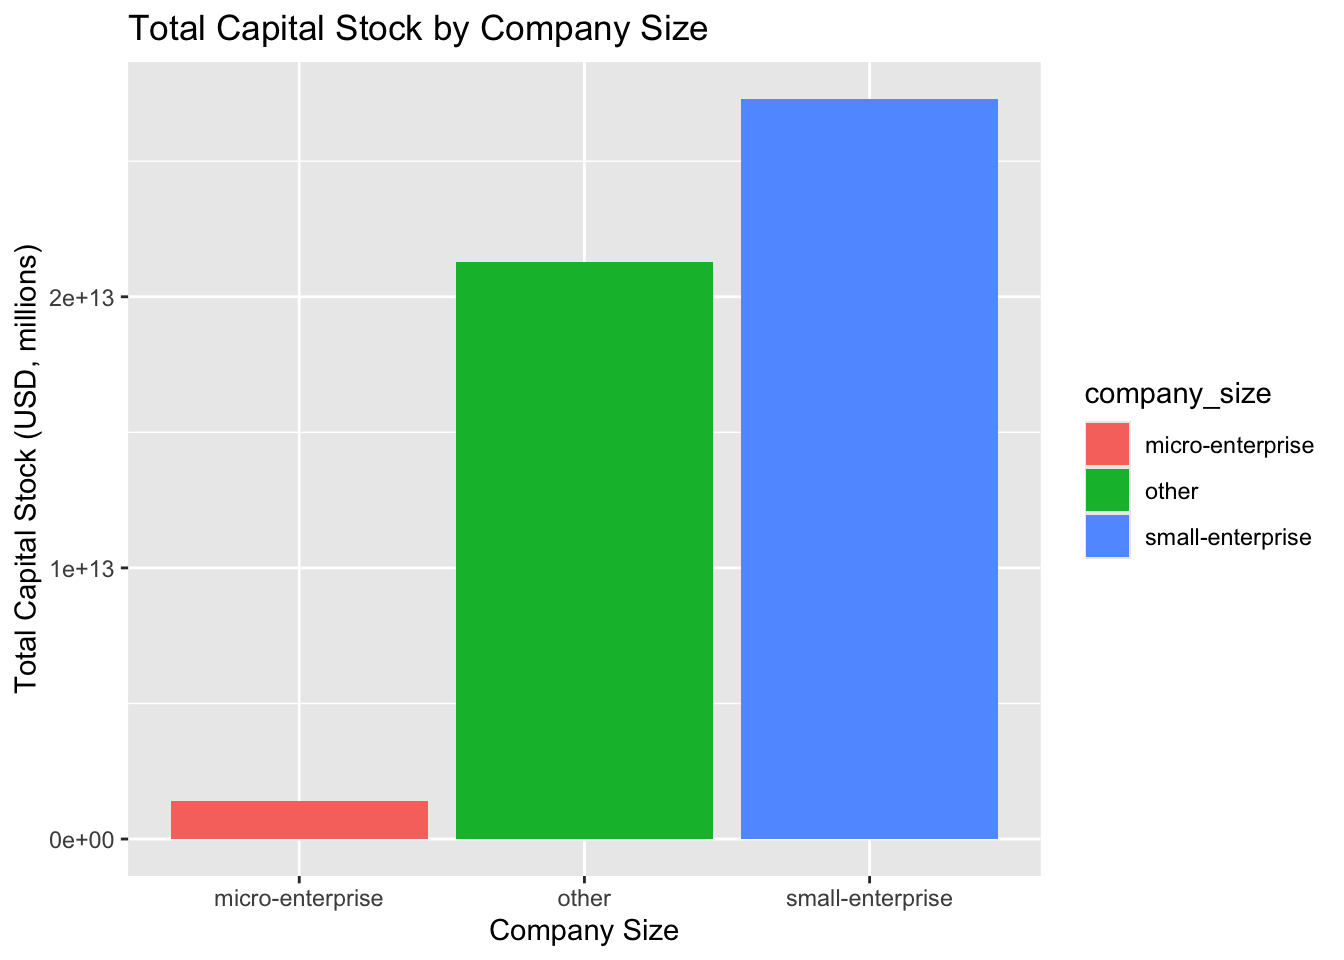
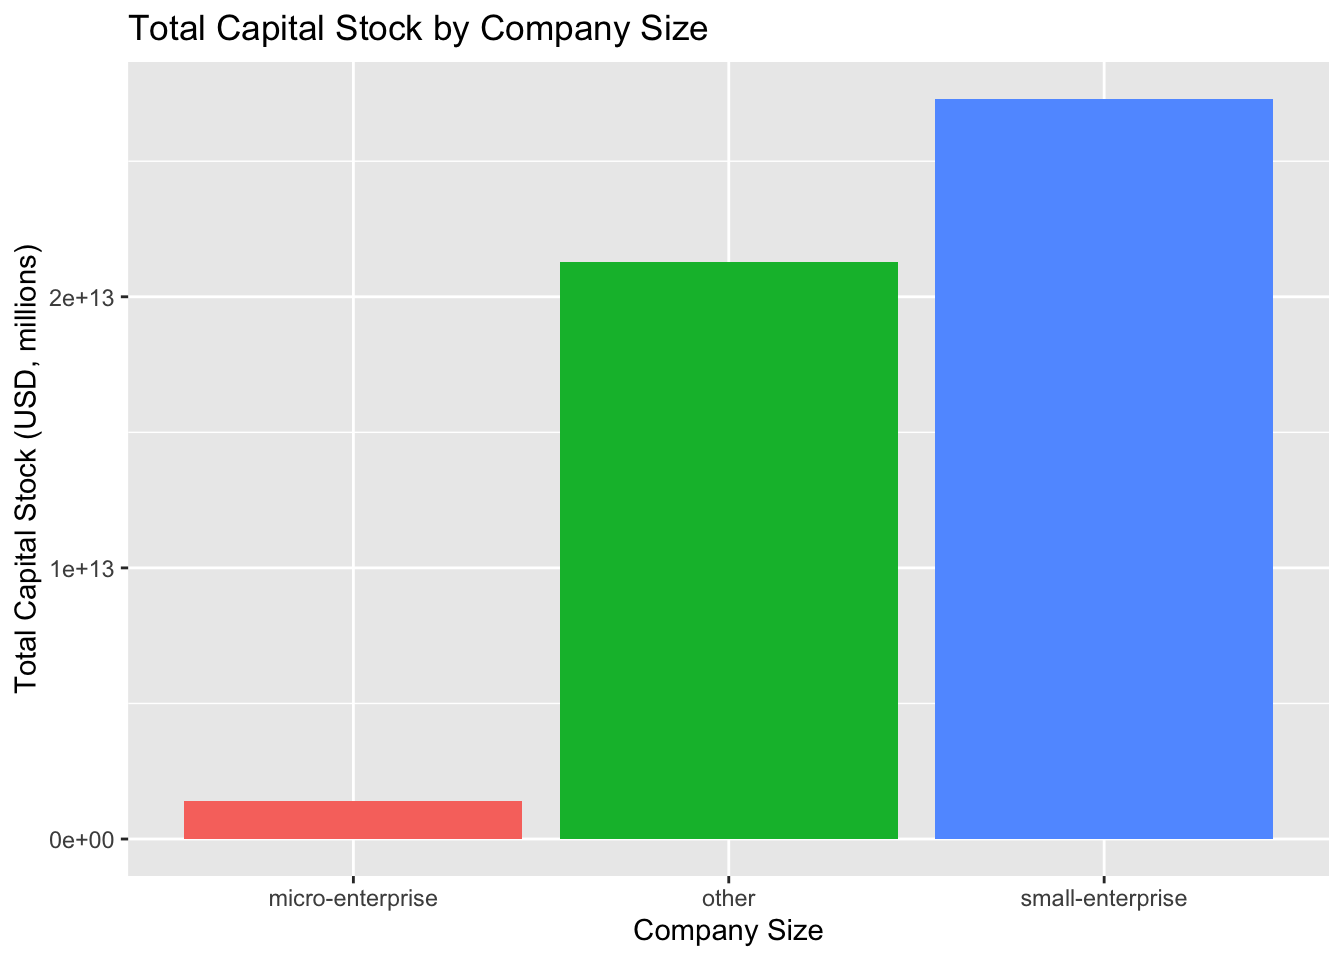
Built site for gh-pages

diff --git a/tt/hw01-tt.html b/tt/hw01-tt.html
@@ -467,6 +467,7 @@ cookieconsent.run({
 </header><section id="tidytuesday-section" class="level2"><h2 class="anchored" data-anchor-id="tidytuesday-section">TidyTuesday Section</h2>
 <p>Explore the week’s <a href="https://github.com/rfordatascience/tidytuesday">TidyTuesday</a> challenge. Develop a research question, then answer it through a short data story with <a href="?var:effective-viz-url">effective visualization(s)</a>. Provide sufficient background for readers to grasp your narrative.</p>
 <p>The dataset displays all 9 Brazilian companies in the Fortune Global 500, which ranks the world’s largest companies by annual revenue. The figures below are given in millions of US dollars and are for the fiscal year 2022.[1] Also listed are the headquarters location, net profit, number of employees worldwide and industry sector of each company.</p>
+<p>The original data can be found <a href="https://github.com/rfordatascience/tidytuesday/blob/main/data/2026/2026-01-27/readme.md">Here</a>.</p>
 <div class="cell">
 <details class="code-fold"><summary>Code</summary><div class="code-copy-outer-scaffold"><div class="sourceCode cell-code" id="cb1"><pre class="sourceCode numberSource r number-lines code-with-copy"><code class="sourceCode r"><span id="cb1-1"><a href="#cb1-1"></a><span class="fu">library</span>(tidyverse)</span>
 <span id="cb1-2"><a href="#cb1-2"></a><span class="fu">library</span>(ggplot2)</span>
@@ -491,7 +492,8 @@ cookieconsent.run({
 <span id="cb2-11"><a href="#cb2-11"></a>    <span class="at">title =</span> <span class="st">"Total Capital Stock by Company Size"</span>,</span>
 <span id="cb2-12"><a href="#cb2-12"></a>    <span class="at">x =</span> <span class="st">"Company Size"</span>,</span>
 <span id="cb2-13"><a href="#cb2-13"></a>    <span class="at">y =</span> <span class="st">"Total Capital Stock (USD, millions)"</span></span>
-<span id="cb2-14"><a href="#cb2-14"></a>  )</span></code></pre></div><button title="Copy to Clipboard" class="code-copy-button"><i class="bi"></i></button></div>
+<span id="cb2-14"><a href="#cb2-14"></a>  ) <span class="sc">+</span></span>
+<span id="cb2-15"><a href="#cb2-15"></a>  <span class="fu">theme</span>(<span class="at">legend.position =</span> <span class="st">"none"</span>)</span></code></pre></div><button title="Copy to Clipboard" class="code-copy-button"><i class="bi"></i></button></div>
 </details><div class="cell-output-display">
 <div>
 <figure class="figure"><p><img src="hw01-tt_files/figure-html/unnamed-chunk-2-1.png" class="img-fluid figure-img" width="672"></p>
@@ -993,33 +995,36 @@ cookieconsent.run({
 <span id="cb3-9"><a href="#cb3-9"></a></span>
 <span id="cb3-10"><a href="#cb3-10"></a>The dataset displays all 9 Brazilian companies in the Fortune Global 500, which ranks the world's largest companies by annual revenue. The figures below are given in millions of US dollars and are for the fiscal year 2022.<span class="co">[</span><span class="ot">1</span><span class="co">]</span> Also listed are the headquarters location, net profit, number of employees worldwide and industry sector of each company.</span>
 <span id="cb3-11"><a href="#cb3-11"></a></span>
-<span id="cb3-14"><a href="#cb3-14"></a><span class="in">```{r}</span></span>
-<span id="cb3-15"><a href="#cb3-15"></a><span class="fu">library</span>(tidyverse)</span>
-<span id="cb3-16"><a href="#cb3-16"></a><span class="fu">library</span>(ggplot2)</span>
-<span id="cb3-17"><a href="#cb3-17"></a>companies <span class="ot">&lt;-</span> readr<span class="sc">::</span><span class="fu">read_csv</span>(<span class="st">'https://raw.githubusercontent.com/rfordatascience/tidytuesday/main/data/2026/2026-01-27/companies.csv'</span>)</span>
-<span id="cb3-18"><a href="#cb3-18"></a>legal_nature <span class="ot">&lt;-</span> readr<span class="sc">::</span><span class="fu">read_csv</span>(<span class="st">'https://raw.githubusercontent.com/rfordatascience/tidytuesday/main/data/2026/2026-01-27/legal_nature.csv'</span>)</span>
-<span id="cb3-19"><a href="#cb3-19"></a>qualifications <span class="ot">&lt;-</span> readr<span class="sc">::</span><span class="fu">read_csv</span>(<span class="st">'https://raw.githubusercontent.com/rfordatascience/tidytuesday/main/data/2026/2026-01-27/qualifications.csv'</span>)</span>
-<span id="cb3-20"><a href="#cb3-20"></a>size <span class="ot">&lt;-</span> readr<span class="sc">::</span><span class="fu">read_csv</span>(<span class="st">'https://raw.githubusercontent.com/rfordatascience/tidytuesday/main/data/2026/2026-01-27/size.csv'</span>)</span>
-<span id="cb3-21"><a href="#cb3-21"></a></span>
-<span id="cb3-22"><a href="#cb3-22"></a><span class="in">```</span></span>
-<span id="cb3-23"><a href="#cb3-23"></a>How does the capital stock of companies vary by company size?</span>
-<span id="cb3-24"><a href="#cb3-24"></a></span>
-<span id="cb3-27"><a href="#cb3-27"></a><span class="in">```{r}</span></span>
-<span id="cb3-28"><a href="#cb3-28"></a>size_totals <span class="ot">&lt;-</span> companies <span class="sc">|&gt;</span></span>
-<span id="cb3-29"><a href="#cb3-29"></a>  <span class="fu">group_by</span>(company_size) <span class="sc">|&gt;</span></span>
-<span id="cb3-30"><a href="#cb3-30"></a>  <span class="fu">summarise</span>(<span class="at">total_capital_stock =</span> <span class="fu">sum</span>(capital_stock, <span class="at">na.rm =</span> <span class="cn">TRUE</span>))</span>
-<span id="cb3-31"><a href="#cb3-31"></a></span>
-<span id="cb3-32"><a href="#cb3-32"></a><span class="fu">ggplot</span>(size_totals, </span>
-<span id="cb3-33"><a href="#cb3-33"></a>       <span class="fu">aes</span>(<span class="at">x =</span> company_size, </span>
-<span id="cb3-34"><a href="#cb3-34"></a>           <span class="at">y =</span> total_capital_stock, </span>
-<span id="cb3-35"><a href="#cb3-35"></a>           <span class="at">fill =</span> company_size)) <span class="sc">+</span></span>
-<span id="cb3-36"><a href="#cb3-36"></a>  <span class="fu">geom_col</span>() <span class="sc">+</span></span>
-<span id="cb3-37"><a href="#cb3-37"></a>  <span class="fu">labs</span>(</span>
-<span id="cb3-38"><a href="#cb3-38"></a>    <span class="at">title =</span> <span class="st">"Total Capital Stock by Company Size"</span>,</span>
-<span id="cb3-39"><a href="#cb3-39"></a>    <span class="at">x =</span> <span class="st">"Company Size"</span>,</span>
-<span id="cb3-40"><a href="#cb3-40"></a>    <span class="at">y =</span> <span class="st">"Total Capital Stock (USD, millions)"</span></span>
-<span id="cb3-41"><a href="#cb3-41"></a>  )</span>
-<span id="cb3-42"><a href="#cb3-42"></a><span class="in">```</span></span>
+<span id="cb3-12"><a href="#cb3-12"></a>The original data can be found <span class="co">[</span><span class="ot">Here</span><span class="co">](https://github.com/rfordatascience/tidytuesday/blob/main/data/2026/2026-01-27/readme.md)</span>.</span>
+<span id="cb3-13"><a href="#cb3-13"></a></span>
+<span id="cb3-16"><a href="#cb3-16"></a><span class="in">```{r}</span></span>
+<span id="cb3-17"><a href="#cb3-17"></a><span class="fu">library</span>(tidyverse)</span>
+<span id="cb3-18"><a href="#cb3-18"></a><span class="fu">library</span>(ggplot2)</span>
+<span id="cb3-19"><a href="#cb3-19"></a>companies <span class="ot">&lt;-</span> readr<span class="sc">::</span><span class="fu">read_csv</span>(<span class="st">'https://raw.githubusercontent.com/rfordatascience/tidytuesday/main/data/2026/2026-01-27/companies.csv'</span>)</span>
+<span id="cb3-20"><a href="#cb3-20"></a>legal_nature <span class="ot">&lt;-</span> readr<span class="sc">::</span><span class="fu">read_csv</span>(<span class="st">'https://raw.githubusercontent.com/rfordatascience/tidytuesday/main/data/2026/2026-01-27/legal_nature.csv'</span>)</span>
+<span id="cb3-21"><a href="#cb3-21"></a>qualifications <span class="ot">&lt;-</span> readr<span class="sc">::</span><span class="fu">read_csv</span>(<span class="st">'https://raw.githubusercontent.com/rfordatascience/tidytuesday/main/data/2026/2026-01-27/qualifications.csv'</span>)</span>
+<span id="cb3-22"><a href="#cb3-22"></a>size <span class="ot">&lt;-</span> readr<span class="sc">::</span><span class="fu">read_csv</span>(<span class="st">'https://raw.githubusercontent.com/rfordatascience/tidytuesday/main/data/2026/2026-01-27/size.csv'</span>)</span>
+<span id="cb3-23"><a href="#cb3-23"></a></span>
+<span id="cb3-24"><a href="#cb3-24"></a><span class="in">```</span></span>
+<span id="cb3-25"><a href="#cb3-25"></a>How does the capital stock of companies vary by company size?</span>
+<span id="cb3-26"><a href="#cb3-26"></a></span>
+<span id="cb3-29"><a href="#cb3-29"></a><span class="in">```{r}</span></span>
+<span id="cb3-30"><a href="#cb3-30"></a>size_totals <span class="ot">&lt;-</span> companies <span class="sc">|&gt;</span></span>
+<span id="cb3-31"><a href="#cb3-31"></a>  <span class="fu">group_by</span>(company_size) <span class="sc">|&gt;</span></span>
+<span id="cb3-32"><a href="#cb3-32"></a>  <span class="fu">summarise</span>(<span class="at">total_capital_stock =</span> <span class="fu">sum</span>(capital_stock, <span class="at">na.rm =</span> <span class="cn">TRUE</span>))</span>
+<span id="cb3-33"><a href="#cb3-33"></a></span>
+<span id="cb3-34"><a href="#cb3-34"></a><span class="fu">ggplot</span>(size_totals, </span>
+<span id="cb3-35"><a href="#cb3-35"></a>       <span class="fu">aes</span>(<span class="at">x =</span> company_size, </span>
+<span id="cb3-36"><a href="#cb3-36"></a>           <span class="at">y =</span> total_capital_stock, </span>
+<span id="cb3-37"><a href="#cb3-37"></a>           <span class="at">fill =</span> company_size)) <span class="sc">+</span></span>
+<span id="cb3-38"><a href="#cb3-38"></a>  <span class="fu">geom_col</span>() <span class="sc">+</span></span>
+<span id="cb3-39"><a href="#cb3-39"></a>  <span class="fu">labs</span>(</span>
+<span id="cb3-40"><a href="#cb3-40"></a>    <span class="at">title =</span> <span class="st">"Total Capital Stock by Company Size"</span>,</span>
+<span id="cb3-41"><a href="#cb3-41"></a>    <span class="at">x =</span> <span class="st">"Company Size"</span>,</span>
+<span id="cb3-42"><a href="#cb3-42"></a>    <span class="at">y =</span> <span class="st">"Total Capital Stock (USD, millions)"</span></span>
+<span id="cb3-43"><a href="#cb3-43"></a>  ) <span class="sc">+</span></span>
+<span id="cb3-44"><a href="#cb3-44"></a>  <span class="fu">theme</span>(<span class="at">legend.position =</span> <span class="st">"none"</span>)</span>
+<span id="cb3-45"><a href="#cb3-45"></a><span class="in">```</span></span>
 </code></pre></div><button title="Copy to Clipboard" class="code-copy-button" data-in-quarto-modal=""><i class="bi"></i></button></div>
 </div></div></div></div></div>
 </div> <!-- /content -->

diff --git a/index.html b/index.html
@@ -477,8 +477,8 @@ cookieconsent.run({
 </header><p>Welcome to my online portfolio for COMP/STAT112 course taken at <a href="https://www.macalester.edu/">Macalester College</a>. Please, use the side bar on the left for navigation.</p>
 <div class="cell">
 <div class="cell-output-display">
-<div class="wordcloud2 html-widget html-fill-item" id="htmlwidget-c6c4ce15478ae835b03a" style="width:100%;height:464px;"></div>
-<script type="application/json" data-for="htmlwidget-c6c4ce15478ae835b03a">{"x":{"word":["welcome","to","comp","stat","212","mac","st paul"],"freq":[10,2,8,8,8,6,6],"fontFamily":"Segoe UI","fontWeight":"bold","color":"random-dark","minSize":0,"weightFactor":18,"backgroundColor":"white","gridSize":0,"minRotation":-0.7853981633974483,"maxRotation":0.7853981633974483,"shuffle":true,"rotateRatio":0.4,"shape":"cardioid","ellipticity":0.65,"figBase64":null,"hover":null},"evals":[],"jsHooks":{"render":[{"code":"function(el,x){\n                        console.log(123);\n                        if(!iii){\n                          window.location.reload();\n                          iii = False;\n\n                        }\n  }","data":null}]}}</script>
+<div class="wordcloud2 html-widget html-fill-item" id="htmlwidget-201aa3a990fd6e21cf9c" style="width:100%;height:464px;"></div>
+<script type="application/json" data-for="htmlwidget-201aa3a990fd6e21cf9c">{"x":{"word":["welcome","to","comp","stat","212","mac","st paul"],"freq":[10,2,8,8,8,6,6],"fontFamily":"Segoe UI","fontWeight":"bold","color":"random-dark","minSize":0,"weightFactor":18,"backgroundColor":"white","gridSize":0,"minRotation":-0.7853981633974483,"maxRotation":0.7853981633974483,"shuffle":true,"rotateRatio":0.4,"shape":"cardioid","ellipticity":0.65,"figBase64":null,"hover":null},"evals":[],"jsHooks":{"render":[{"code":"function(el,x){\n                        console.log(123);\n                        if(!iii){\n                          window.location.reload();\n                          iii = False;\n\n                        }\n  }","data":null}]}}</script>
 </div>
 </div>
 

diff --git a/404.html b/404.html
@@ -7,7 +7,7 @@
 <meta name="viewport" content="width=device-width, initial-scale=1.0, user-scalable=yes">
 
 
-<title>quarto-input8709a22f70f0f286 – COMP/STAT212 Portfolio</title>
+<title>quarto-input9a662a0f36c52b57 – COMP/STAT212 Portfolio</title>
 <style>
 code{white-space: pre-wrap;}
 span.smallcaps{font-variant: small-caps;}
